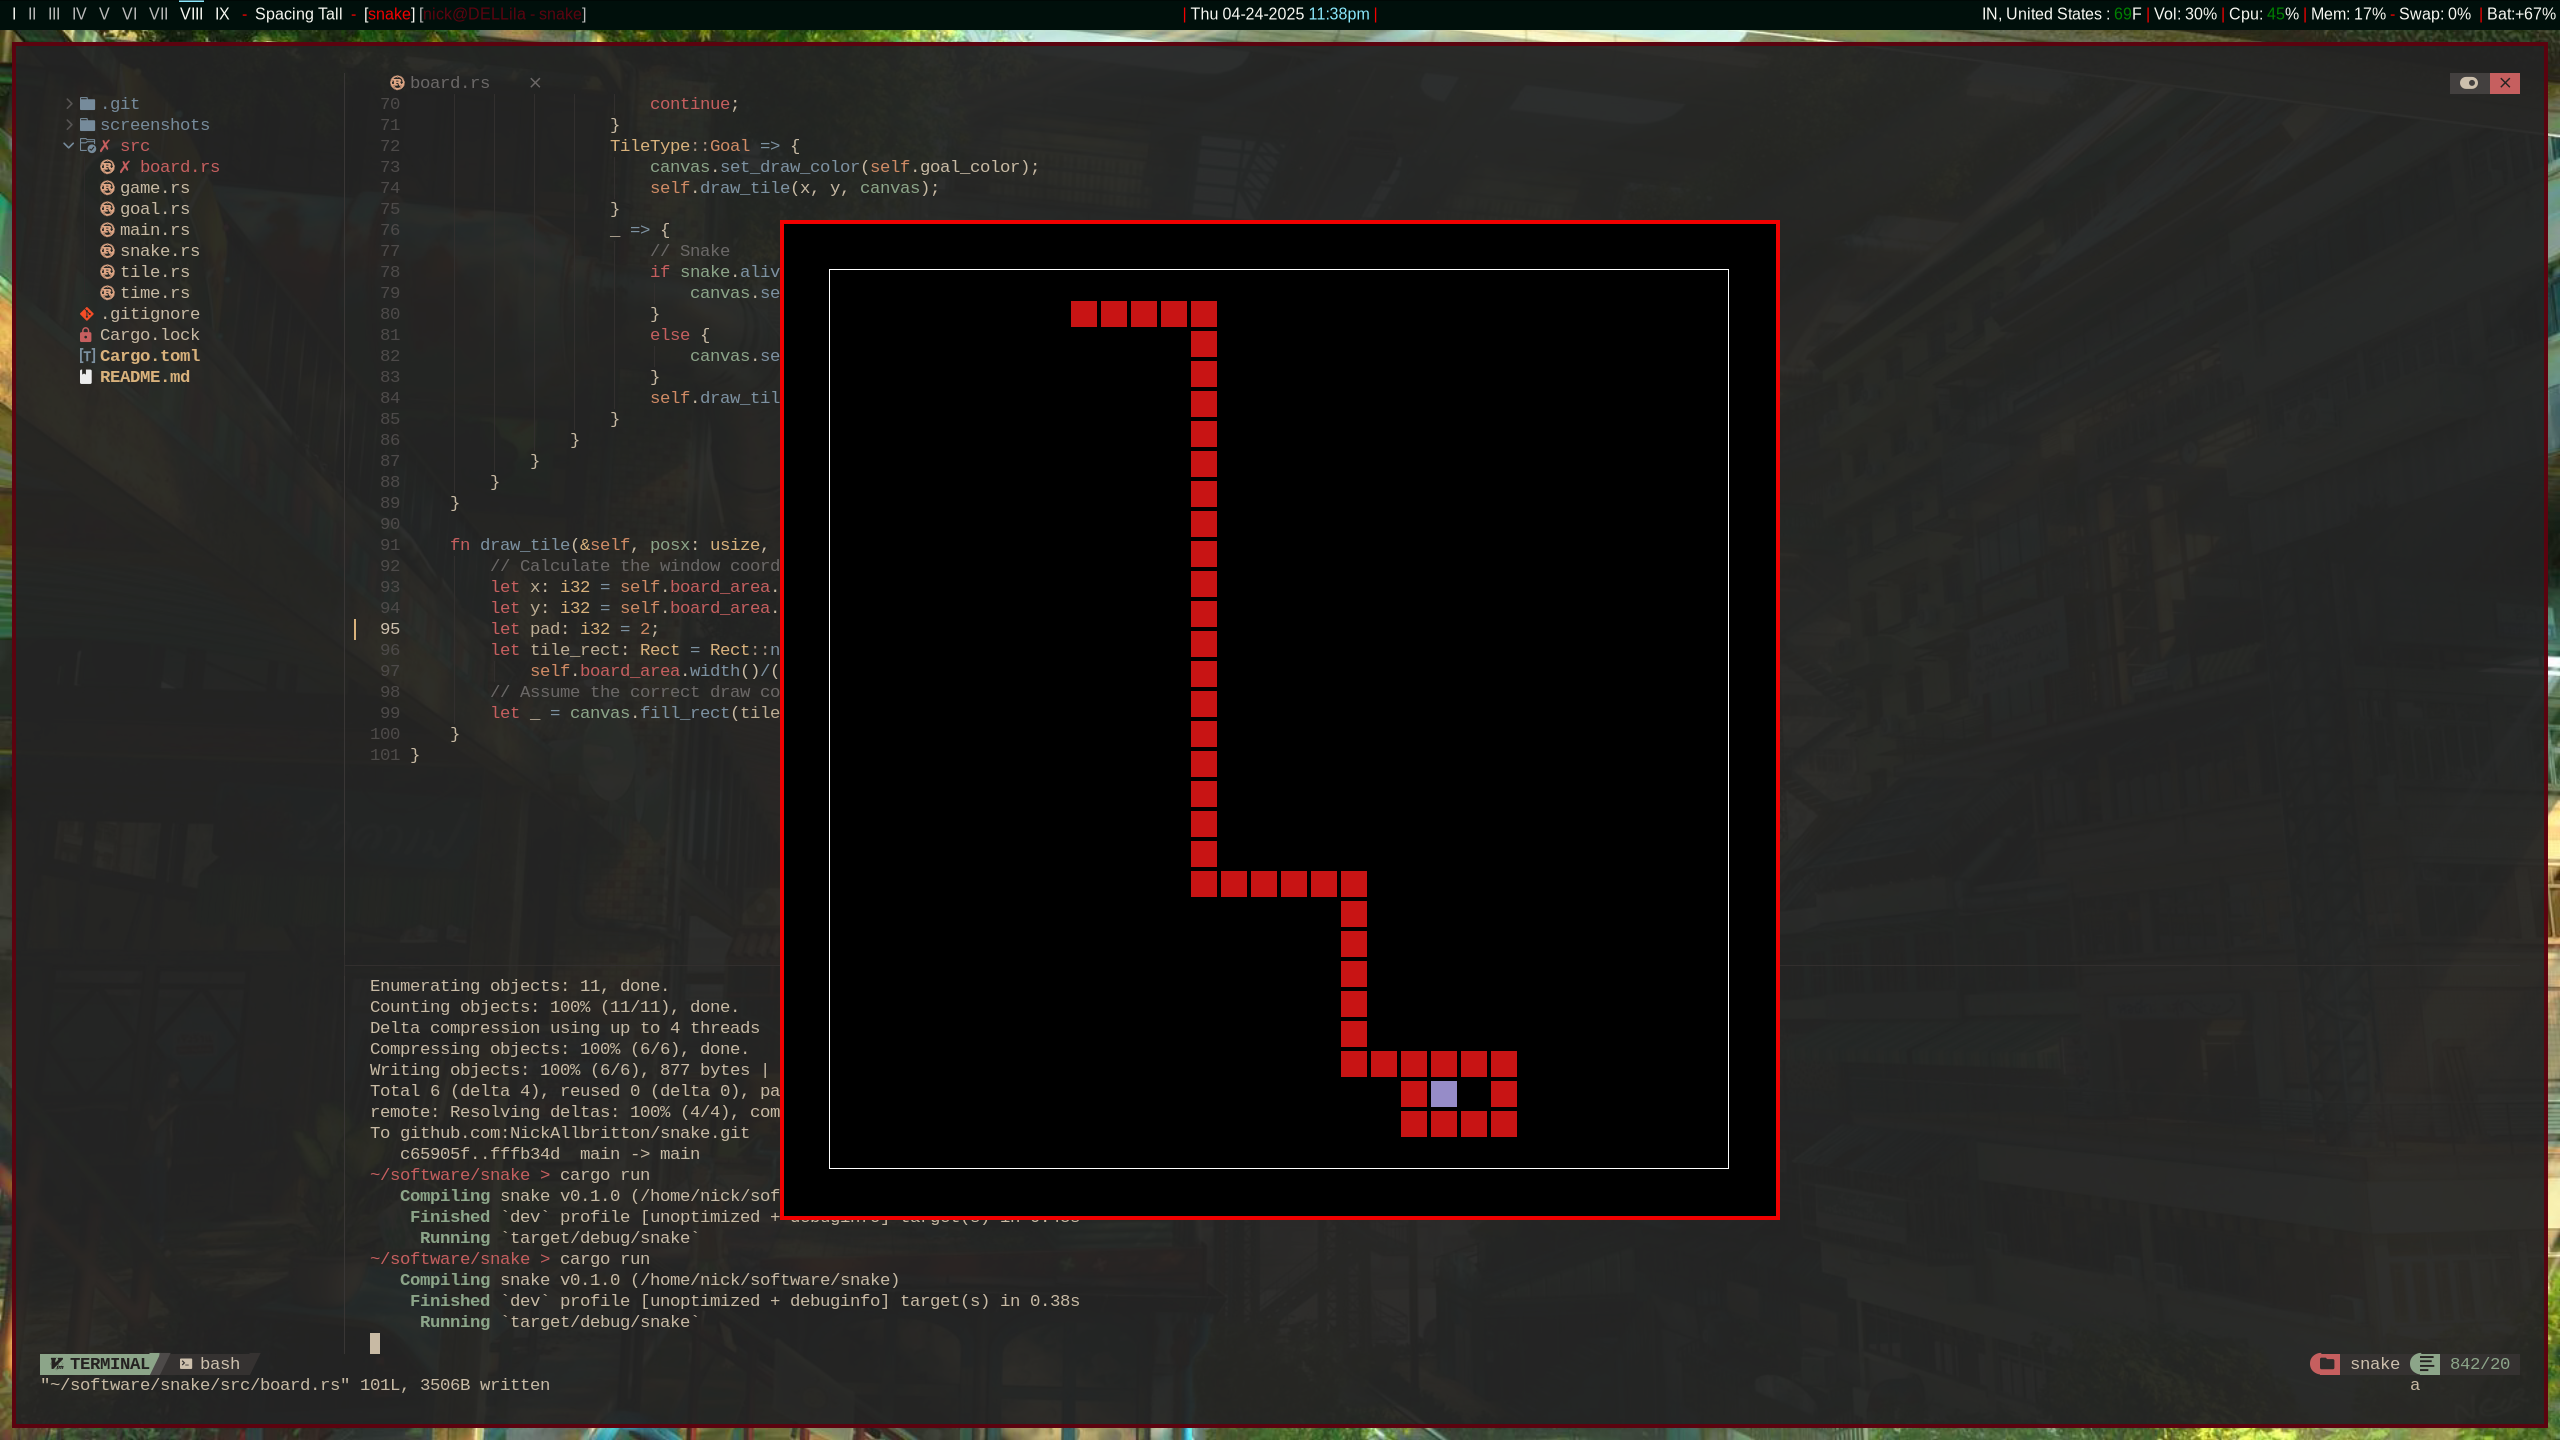
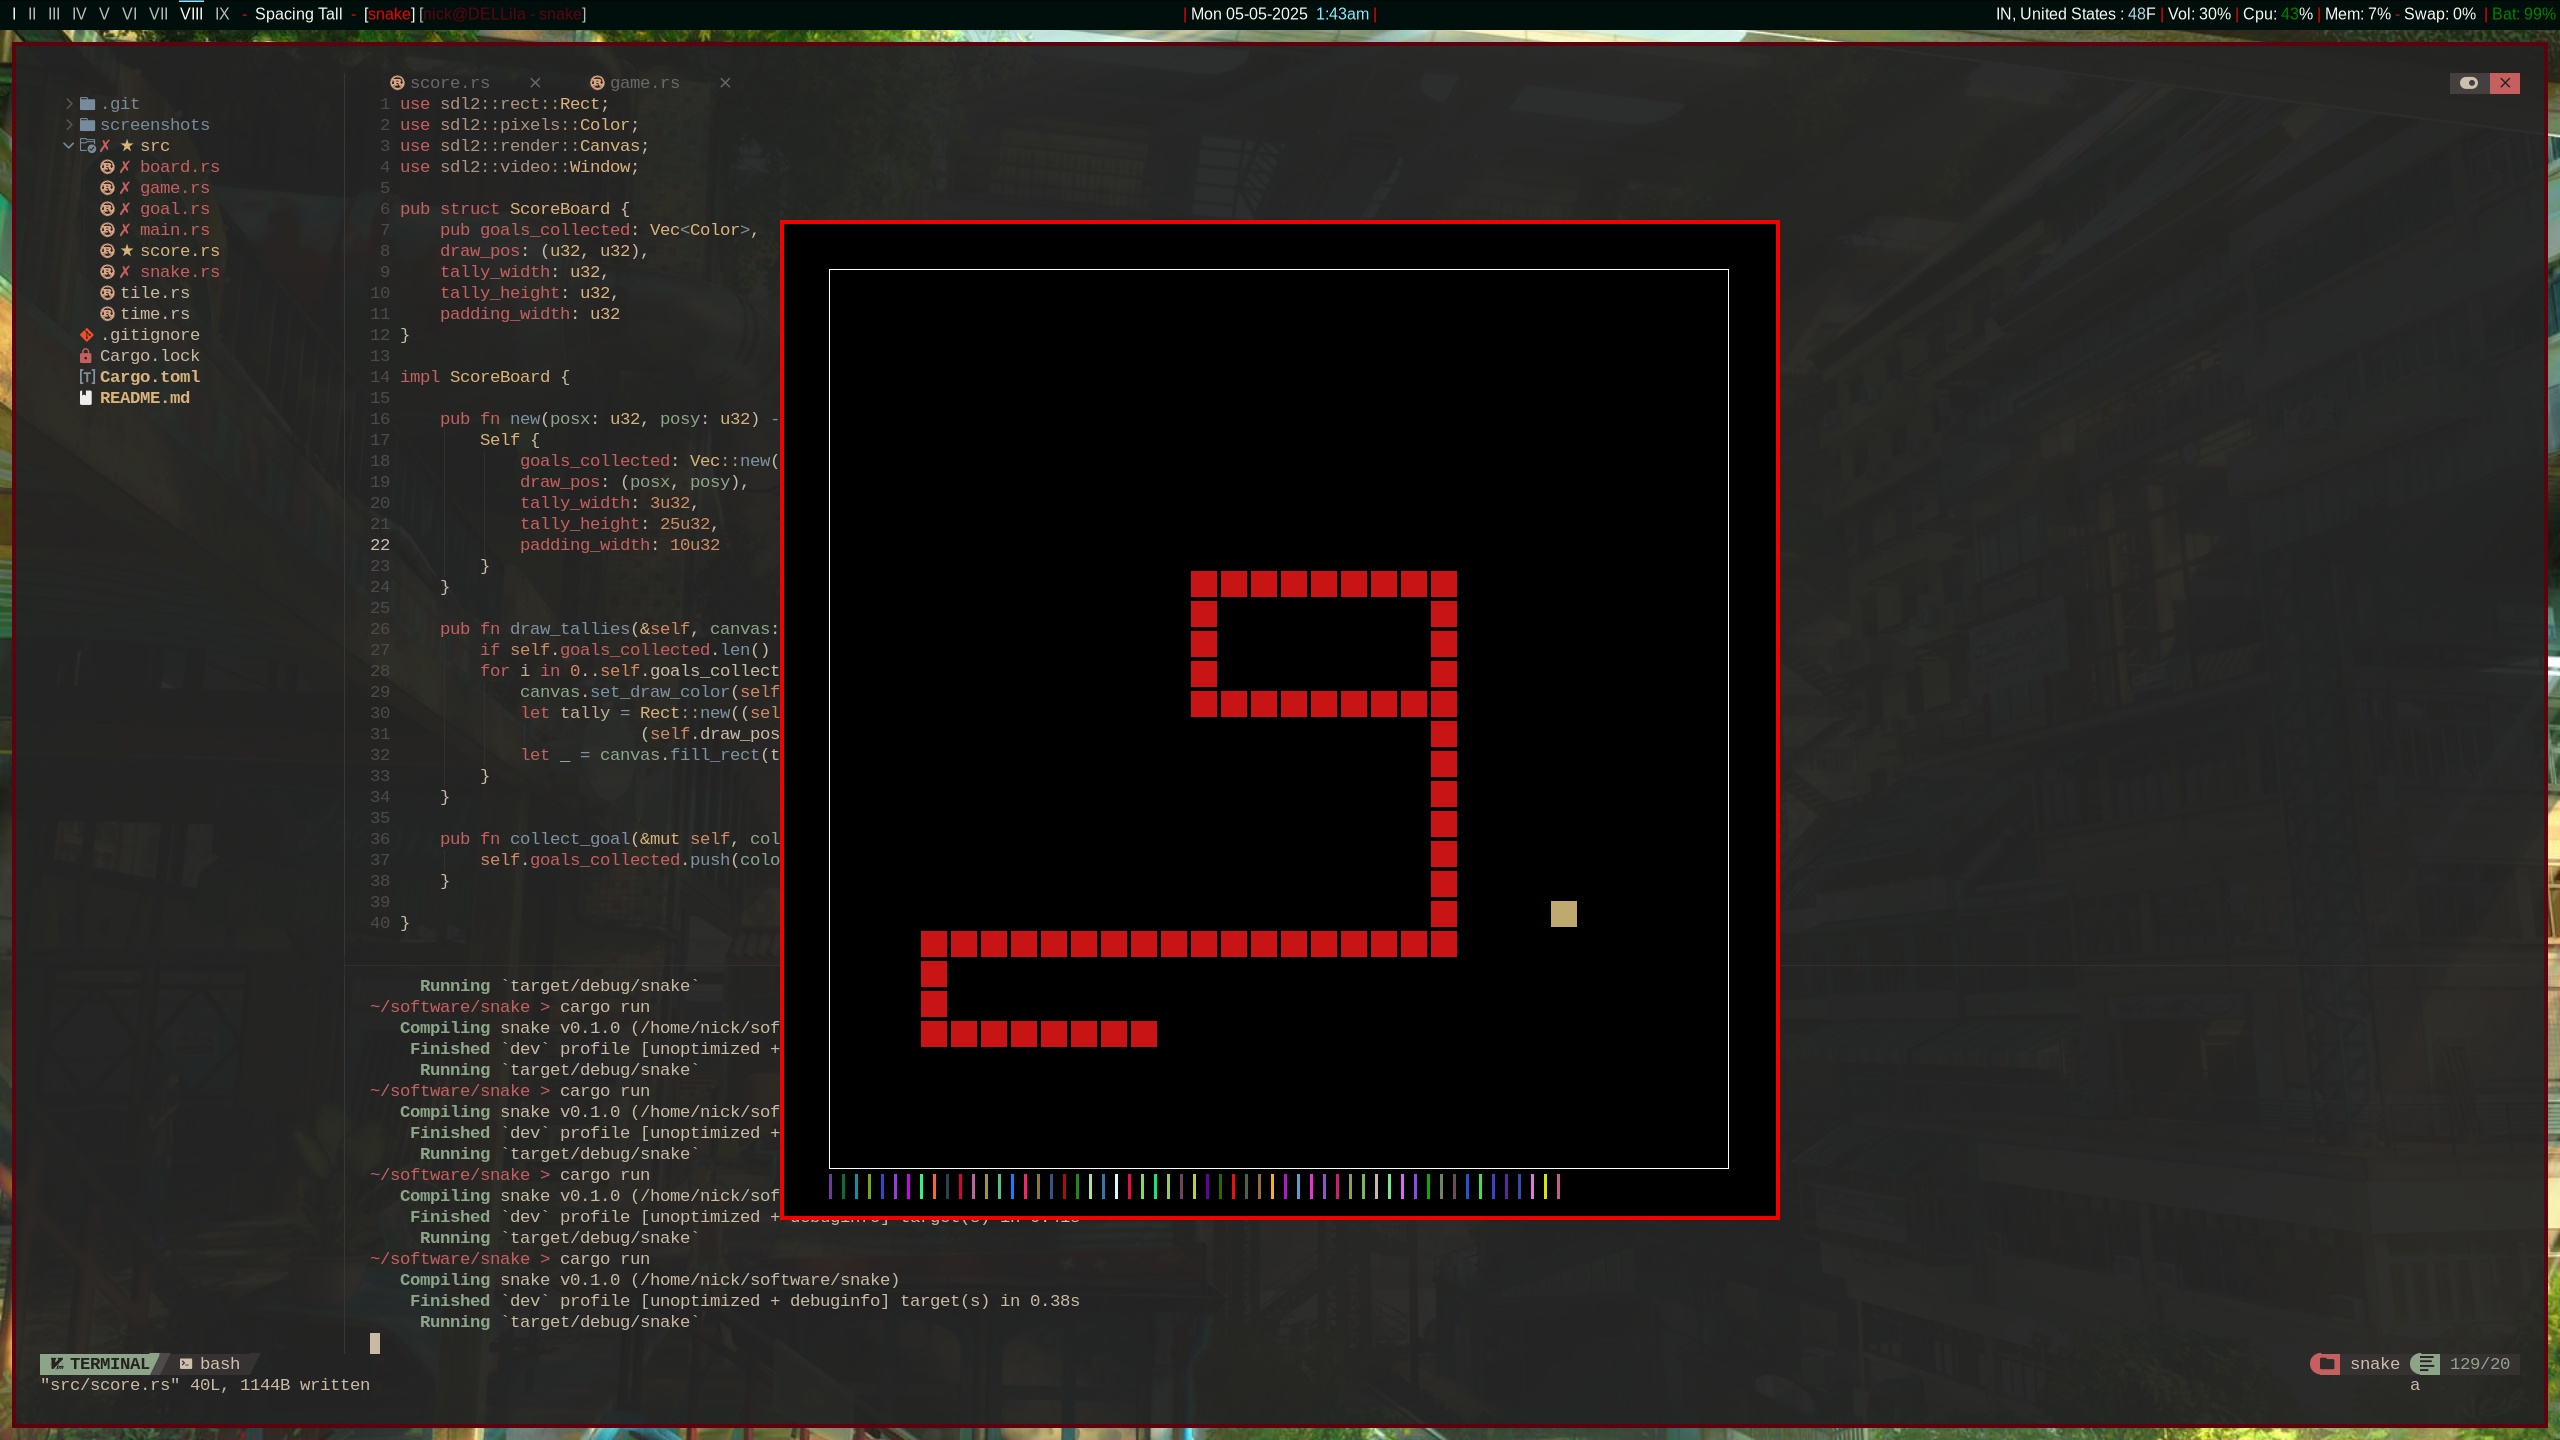
added a tally at the bottom to show how many goals have been collected and the color of each

diff --git a/src/game.rs b/src/game.rs
@@ -5,6 +5,7 @@ use sdl2::video::Window;
 use glam::IVec2;
 
 use crate::board::Board;
+use crate::score::ScoreBoard;
 use crate::snake::{Snake, Direction};
 use crate::goal::Goal;
 use crate::time::FrameTimer;
@@ -13,6 +14,7 @@ pub struct Game {
     //wnd_width: u32,
     //wnd_height: u32,
     pub board: Board,
+    pub score: ScoreBoard,
     pub goal: Goal,
     pub snake: Snake,
     pub ft: FrameTimer,
@@ -28,6 +30,7 @@ impl Game {
             board: Board::new((window_width/20 - 5).try_into().unwrap(),
                                 (window_height/20 - 5).try_into().unwrap(),
                                 window_width*9/10, window_height*9/10),
+            score: ScoreBoard::new(window_width/20 - 5, window_height*190/200),
             goal: Goal::new(),
             snake: Snake::new(IVec2 {x: 10, y: 10}),
             ft: FrameTimer::new(),
@@ -37,6 +40,7 @@ impl Game {
 
     pub fn draw_wnd(&mut self, canvas: &mut Canvas<Window>) {
         self.board.render(&self.goal, &self.snake, canvas);
+        self.score.draw_tallies(canvas);
         canvas.present();
     }
 
@@ -60,7 +64,7 @@ impl Game {
         if self.snake.alive() {
             // Move the snake if possible
             if self.snake.within_board() && !self.snake.eating_tail() {
-                self.snake.try_eat_goal(&mut self.goal);
+                self.snake.try_eat_goal(&mut self.score, &mut self.goal);
                 self.snake.move_once(&mut self.board);
             }
             else {
@@ -68,7 +72,7 @@ impl Game {
             }
             // Change the goal color
             let mut rng = rand::rng();
-            self.board.goal_color = Color::RGB(rng.random_range(0..255), rng.random_range(0..255), rng.random_range(0..255));
+            self.goal.color = Color::RGB(rng.random_range(0..255), rng.random_range(0..255), rng.random_range(0..255));
         }
         else {
             // TODO: Show final score or something

diff --git a/src/board.rs b/src/board.rs
@@ -2,7 +2,6 @@ use sdl2::rect::Rect;
 use sdl2::pixels::Color;
 use sdl2::render::Canvas;
 use sdl2::video::Window;
-use rand::Rng;
 
 use crate::tile::{Tile, TileType};
 use crate::snake::Snake;
@@ -12,7 +11,6 @@ pub const WIDTH: usize = 30;
 
 pub struct Board {
     pub board_area: Rect,
-    pub goal_color: Color,
     tiles: [Tile; WIDTH*WIDTH]
 }
 
@@ -20,7 +18,6 @@ impl Board {
     pub fn new(posx: i32, posy: i32, width: u32, height: u32) -> Self {
         Self {
             board_area: Rect::new(posx, posy, width, height),
-            goal_color: Color::RGB(150, 140, 200),
             tiles: [Tile::new(0, 0, TileType::Empty); WIDTH*WIDTH] 
         }
     }
@@ -41,7 +38,7 @@ impl Board {
         self.draw_edges(canvas);
         self.draw_goal(goal);
         self.draw_snake(snake);
-        self.draw_tiles(snake, canvas);
+        self.draw_tiles(snake, goal, canvas);
     }
 
     fn draw_edges(&self, canvas: &mut Canvas<Window>) {
@@ -61,7 +58,7 @@ impl Board {
         }
     }
 
-    fn draw_tiles(&self, snake: &Snake, canvas: &mut Canvas<Window>) {
+    fn draw_tiles(&self, snake: &Snake, goal: &Goal, canvas: &mut Canvas<Window>) {
         for y in 0..WIDTH { 
             for x in 0..WIDTH {
                 let cur_tile_type = self.tiles[x + WIDTH * y].ttype.clone();
@@ -70,7 +67,7 @@ impl Board {
                         continue;
                     }
                     TileType::Goal => {
-                        canvas.set_draw_color(self.goal_color);
+                        canvas.set_draw_color(goal.color);
                         self.draw_tile(x, y, canvas);
                     }
                     _ => {

diff --git a/src/score.rs b/src/score.rs
@@ -1,0 +1,40 @@
+use sdl2::rect::Rect;
+use sdl2::pixels::Color;
+use sdl2::render::Canvas;
+use sdl2::video::Window;
+
+pub struct ScoreBoard {
+    pub goals_collected: Vec<Color>,
+    draw_pos: (u32, u32),
+    tally_width: u32,
+    tally_height: u32,
+    padding_width: u32
+}
+
+impl ScoreBoard {
+
+    pub fn new(posx: u32, posy: u32) -> Self {
+        Self {
+            goals_collected: Vec::new(),
+            draw_pos: (posx, posy),
+            tally_width: 3u32,
+            tally_height: 25u32,
+            padding_width: 10u32
+        }
+    }
+
+    pub fn draw_tallies(&self, canvas: &mut Canvas<Window>) {
+        if self.goals_collected.len() == 0 { return; }
+        for i in 0..self.goals_collected.len() {
+            canvas.set_draw_color(self.goals_collected[i]);
+            let tally = Rect::new((self.draw_pos.0 + (self.tally_width+self.padding_width)*(i as u32)).try_into().unwrap(),
+                        (self.draw_pos.1).try_into().unwrap(), self.tally_width, self.tally_height);
+            let _ = canvas.fill_rect(tally);
+        }
+    }
+
+    pub fn collect_goal(&mut self, color: Color) {
+        self.goals_collected.push(color);
+    }
+
+}

diff --git a/src/snake.rs b/src/snake.rs
@@ -4,6 +4,7 @@ use rand::Rng;
 use crate::tile::{Tile, TileType};
 use crate::board::{self, Board};
 use crate::goal::Goal;
+use crate::score::ScoreBoard;
 
 #[derive(PartialEq)]
 pub enum Direction {
@@ -86,13 +87,14 @@ impl Snake {
         return false; // next update will not eat tail
     }
 
-    pub fn try_eat_goal(&mut self, goal: &mut Goal)
+    pub fn try_eat_goal(&mut self, score: &mut ScoreBoard, goal: &mut Goal)
     {
         let nextx_head = self.body[0].x + self.dir.vec().x;
         let nexty_head = self.body[0].y + self.dir.vec().y;
 
         if goal.tile.x == nextx_head && goal.tile.y == nexty_head {
             self.grow = true;
+            score.collect_goal(goal.color);
             goal.respawn(&self);
         }
     }

diff --git a/src/goal.rs b/src/goal.rs
@@ -1,4 +1,5 @@
 use rand::Rng;
+use sdl2::pixels::Color;
 
 use crate::board;
 use crate::tile::{Tile, TileType};
@@ -6,7 +7,8 @@ use crate::snake::Snake;
 
 
 pub struct Goal {
-    pub tile: Tile
+    pub tile: Tile,
+    pub color: Color
 }
 
 impl Goal {
@@ -29,7 +31,8 @@ impl Goal {
         }
 
         Self {
-            tile: Tile::new(x as i32, y as i32, TileType::Goal)
+            tile: Tile::new(x as i32, y as i32, TileType::Goal),
+            color: Color::RGB(255, 255, 255) // initialize with white
         }
     }
 

diff --git a/src/main.rs b/src/main.rs
@@ -4,6 +4,7 @@ mod board;
 mod tile;
 mod snake;
 mod goal;
+mod score;
 
 
 fn main() -> Result<(), String> {
